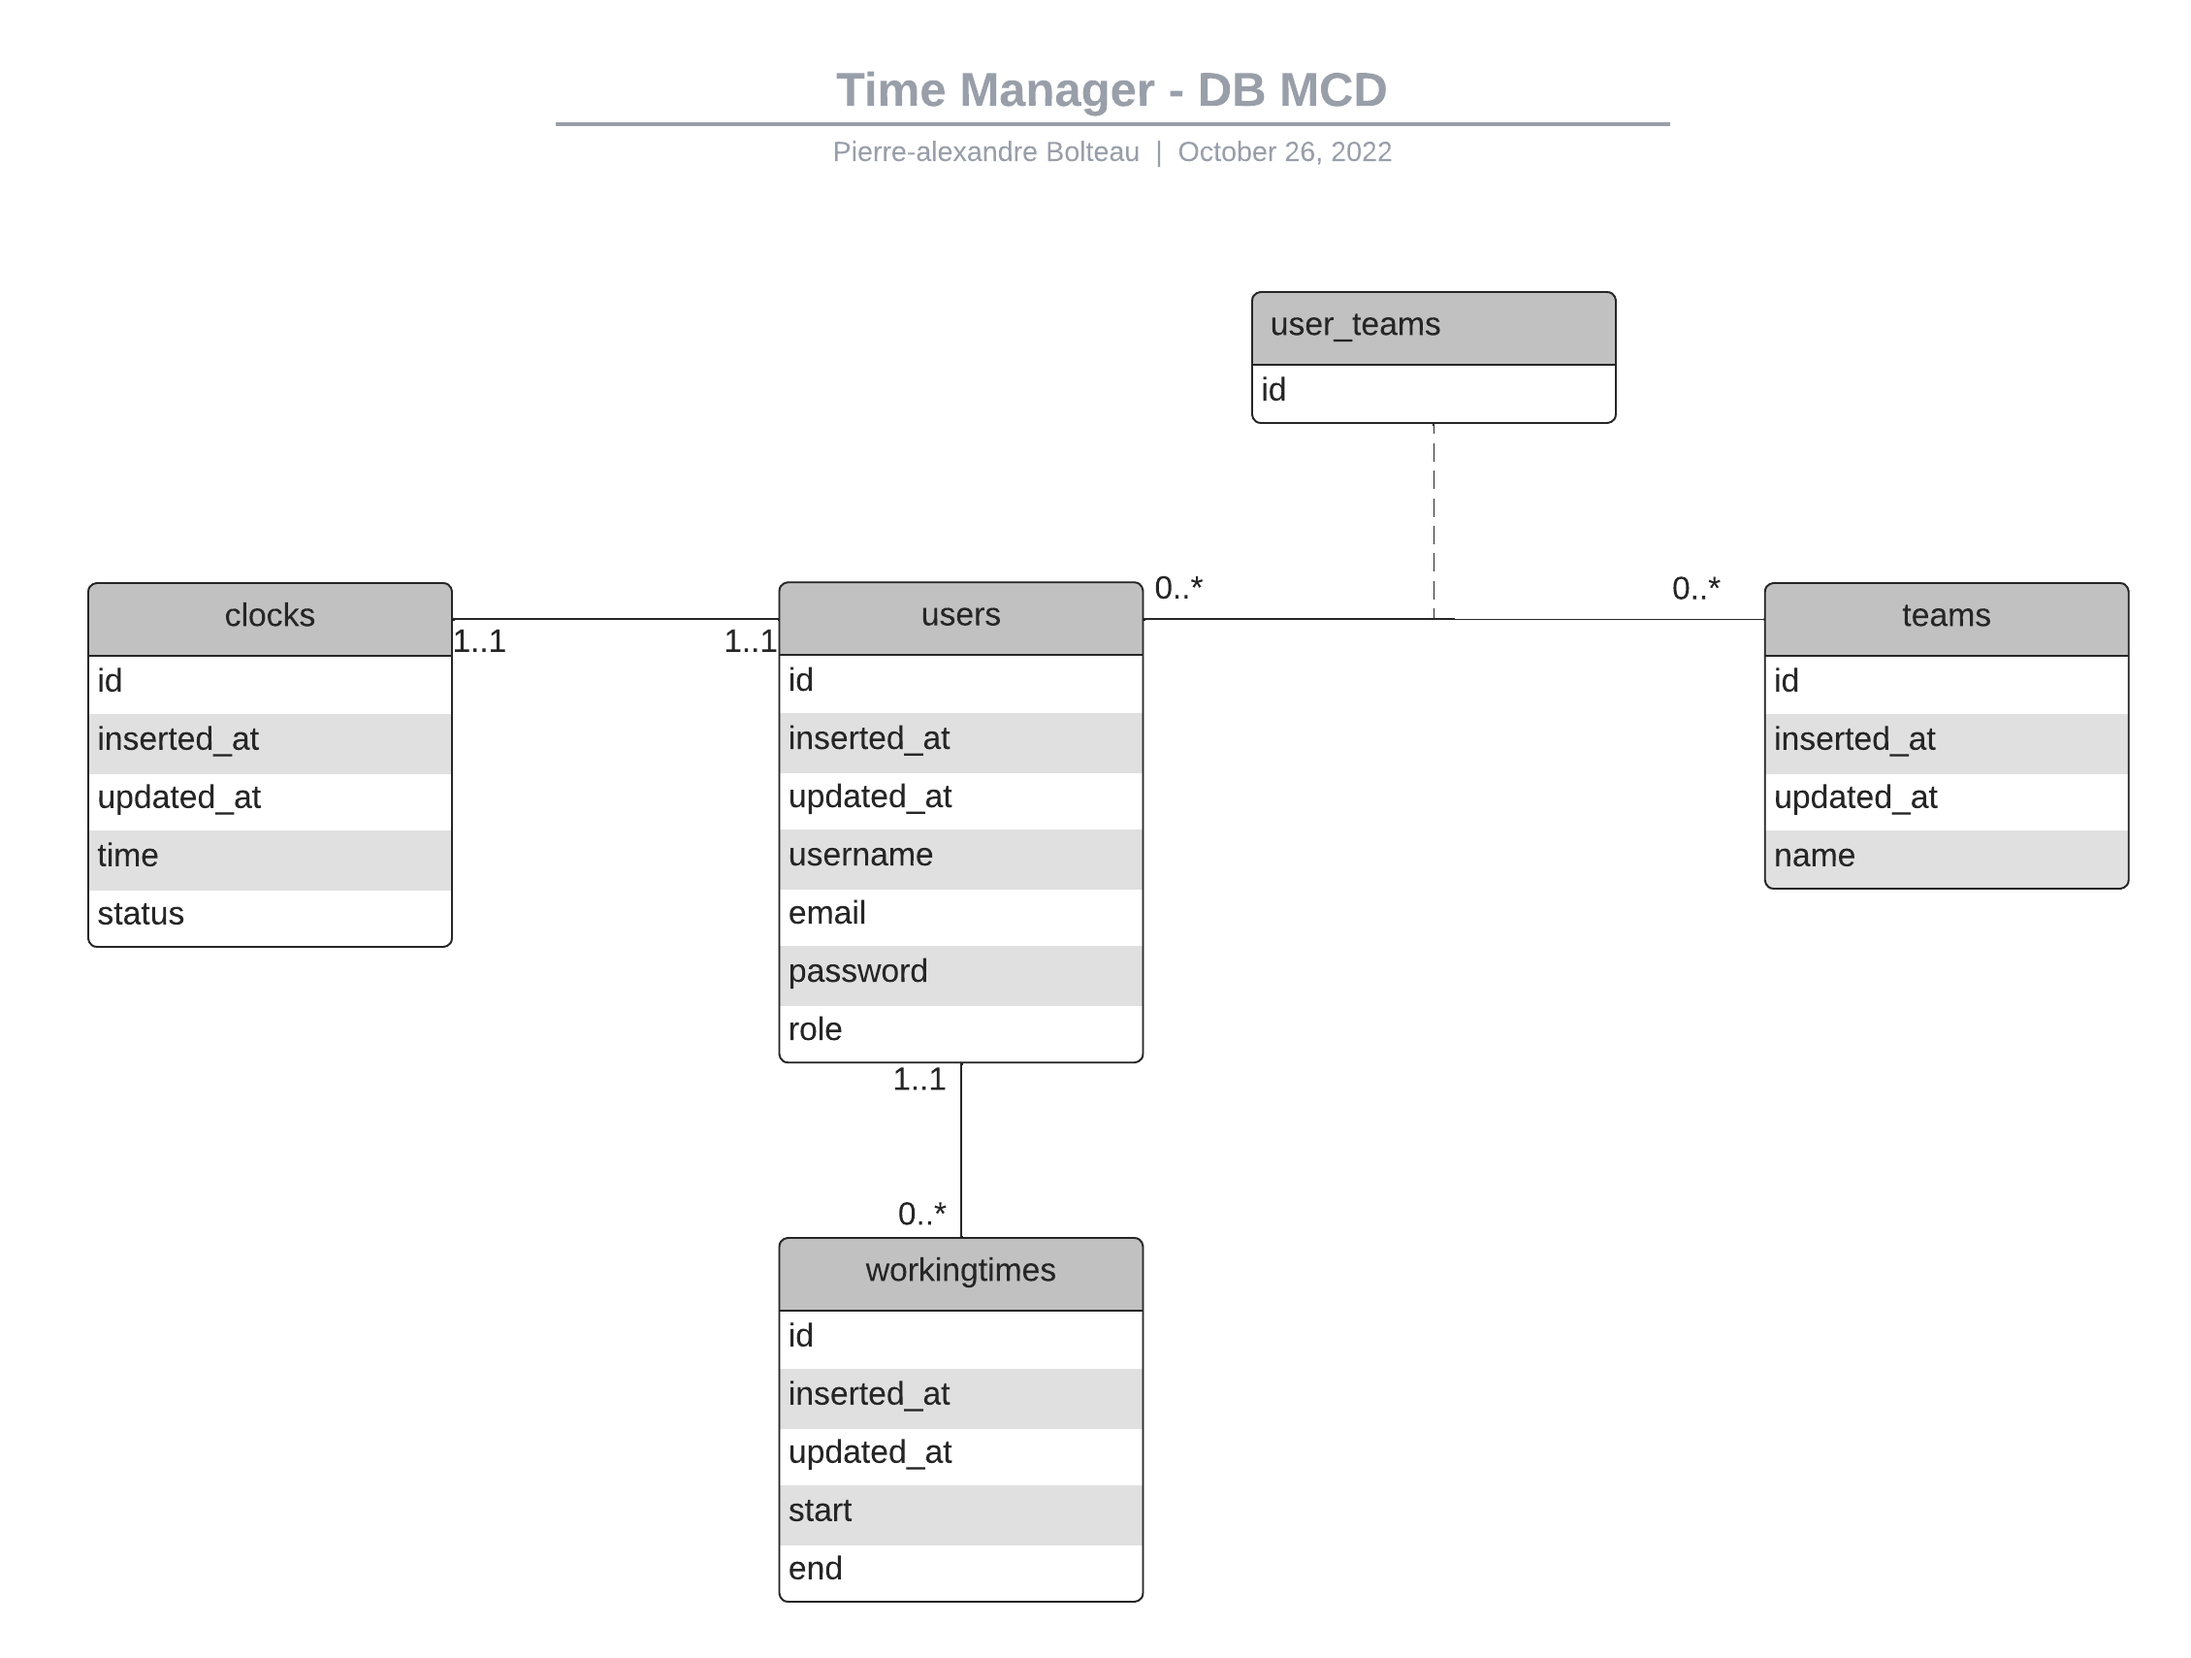
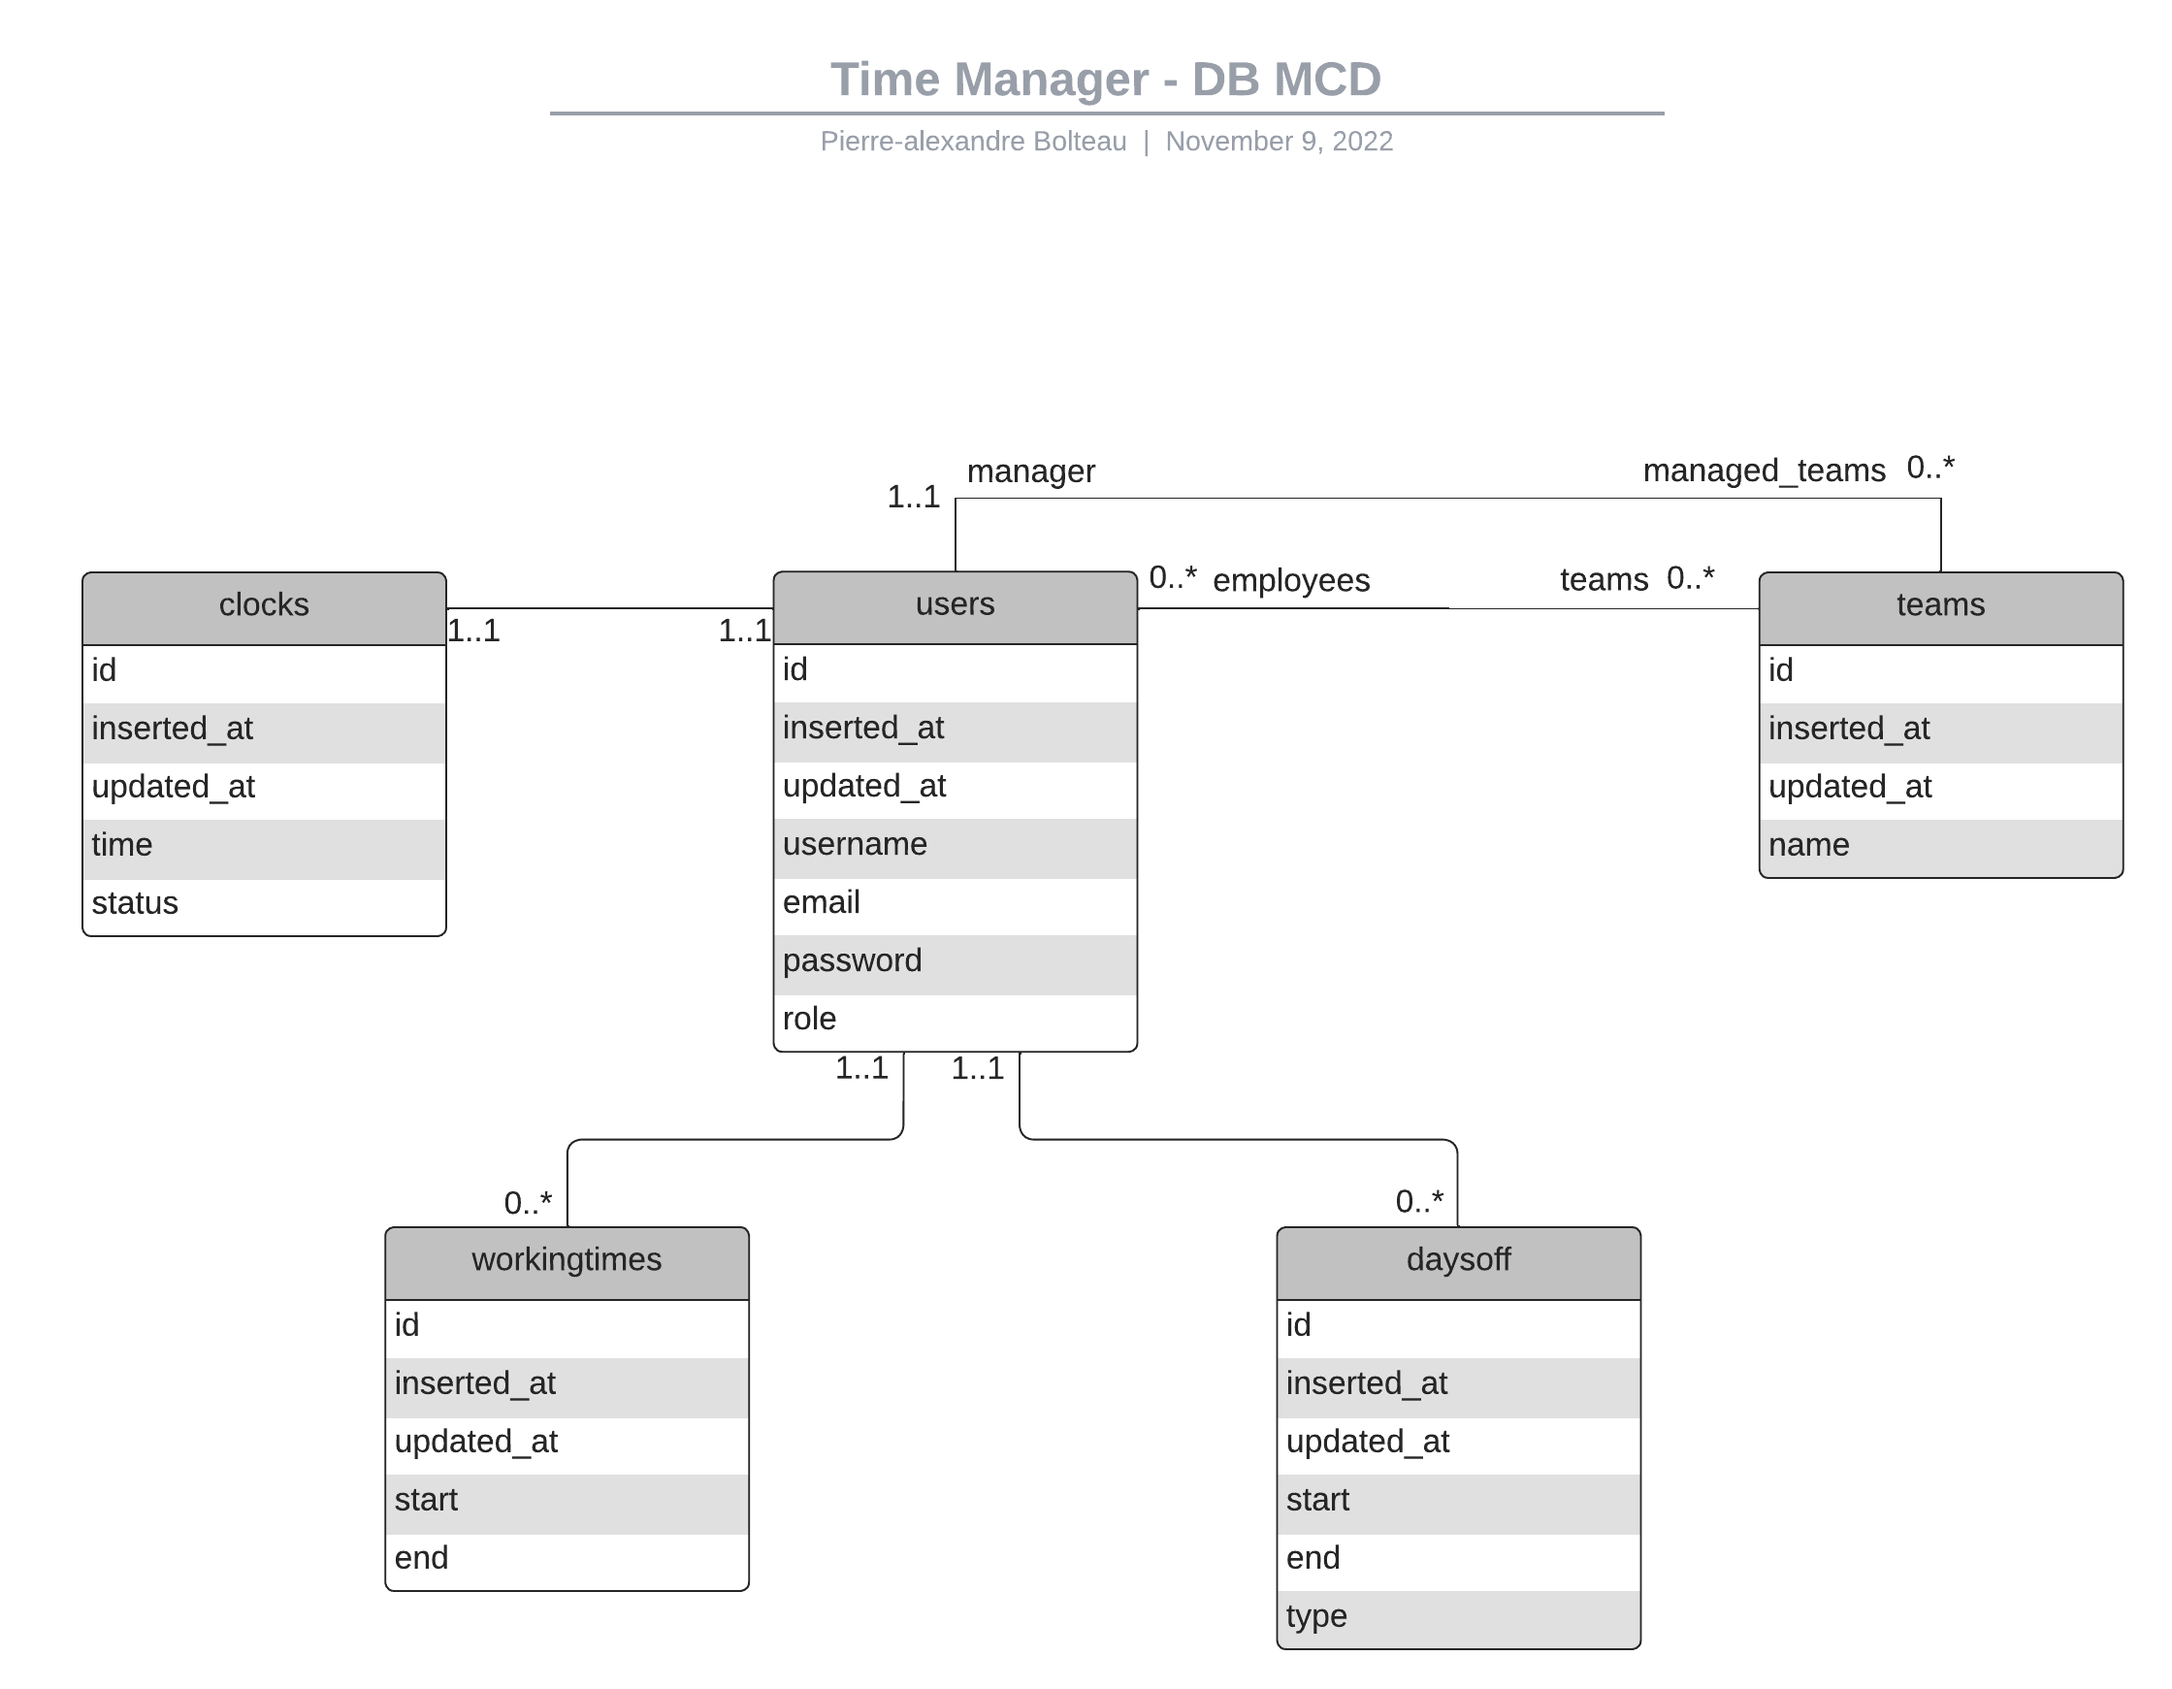
doc

diff --git a/backend/README.md b/backend/README.md
@@ -19,32 +19,62 @@ To start your Dockerized Phoenix server and Deploy:
 
 ## Routes
 
-### **1. Users**
+### **1. Sessions**
 
-| Http Methods | Routes         | Description                                         | Parameters                            | Body example                                                         |
-| ------------ | -------------- | --------------------------------------------------- | ------------------------------------- | -------------------------------------------------------------------- |
-| GET          | /api/users     | Get all users or get one user by username and email | username (optional), email (optional) | -                                                                    |
-| GET          | /api/users/:id | Get user by id                                      | -                                     | -                                                                    |
-| POST         | /api/users     | Create user                                         | -                                     | { "user": { "username": "Thomas", "email": "thomascgz@gmail.com" } } |
-| PUT          | /api/users/:id | Update user by id                                   | -                                     | { "user": { "username": "greg", "email": "test2@test.fr" } }         |
-| DELETE       | /api/users/:id | Delete user by id                                   | -                                     | -                                                                    |
+| Http Methodes | Routes                | Description   | Permissions          | Parameters | Body example                                 |
+|---------------|-----------------------|---------------|----------------------|------------|----------------------------------------------|
+| POST          | /api/sessions/new     | Log in        | -                    | -          | {"email":"test@gmail.com","password":"test"} |
+| POST          | /api/sessions/refresh | Refresh token | must be authenticate | -          | -                                            |
+| POST          | /api/sessions/delete  | Log out       | must be authenticate | -          | -                                            |
 
-### **2. Clocks**
+### **2. Users**
 
-| Http Methods | Routes              | Description                                                                                                | Parameters | Body example |
-| ------------ | ------------------- | ---------------------------------------------------------------------------------------------------------- | ---------- | ------------ |
-| GET          | /api/clocks/:userId | Get the user's clock by its id                                                                             | -          | -            |
-| POST         | /api/clocks/:userId | Post clock or update time and status of the clock. If status is update to false, it creates a working time | -          | -            |
+| Http Methodes | Routes         | Description                                         | Permissions                                                | Parameters                            | Body example                                                                      |
+|---------------|----------------|-----------------------------------------------------|------------------------------------------------------------|---------------------------------------|-----------------------------------------------------------------------------------|
+| GET           | /api/users     | Get all users or get one user by username and email | current user (not for list), manager (not for list), admin | username (optional), email (optional) | -                                                                                 |
+| GET           | /api/users/:id | Get user by id                                      | current user, manager, admin                               | -                                     | -                                                                                 |
+| POST          | /api/users     | Create user                                         | -                                                          | -                                     | { "user": { "username": "Thomas", "email": "test@bar.com" , "password": "test"} } |
+| PUT           | /api/users/:id | Update user by id                                   | current user, manager, admin                               | -                                     | { "user": { "username": "greg", "email": "test2@test.fr" } }                      |
+| DELETE        | /api/users/:id | Delete user by id                                   | current user, manager, admin                               | -                                     | -                                                                                 |
 
-### **3. Workingtimes**
+### **3. Teams**
 
-| Http Methods | Routes                        | Description                                 | Parameters | Body example                                                                        |
-| ------------ | ----------------------------- | ------------------------------------------- | ---------- | ----------------------------------------------------------------------------------- |
-| GET          | /api/workingtimes/:userId     | Get user's workingtimes between 2 datetimes | start, end | -                                                                                   |
-| GET          | /api/workingtimes/:userId/:id | Get workingtime by id and user id           | -          | -                                                                                   |
-| POST         | /api/workingtimes/:userId     | create a workingtime for a user             | -          | { "workingtime": { "start": "2021-10-26T00:00:00", "end": "2021-10-26T23:00:00" } } |
-| PUT          | /api/workingtimes/:id         | update workingtime by id                    | -          | { "workingtime": { "start": "2021-10-26T08:03:07" } }                               |
-| DELETE       | /api/workingtimes/:id         | delete workingtime by id                    | -          | -                                                                                   |
+| Http Methodes | Routes                 | Description         | Permissions                | Parameters | Body example                              |
+|---------------|------------------------|---------------------|----------------------------|------------|-------------------------------------------|
+| GET           | /api/teams             | Get all teams       | must be authenticate       | -          | -                                         |
+| GET           | /api/teams/:id         | Get team by id      | must be authenticate       | -          | -                                         |
+| POST          | /api/teams             | Create user         | manager, admin             | -          | {"team":{"manager_id":"1","name":"test"}} |
+| PUT           | /api/teams/:id         | Update team by id   | manager of the team, admin | -          | {"team":{"name":"update_name"}}           |
+| PUT           | /api/teams/:id/:userId | Add user to team    | manager of the team, admin | -          | -                                         |
+| DELETE        | /api/teams/:id/:userId | Remove user to team | manager of the team, admin | -          | -                                         |
+| DELETE        | /api/teams/:id         | Delete team by id   | manager of the team, admin | -          | -                                         |
+
+### **4. Clocks**
+
+| Http Methodes | Routes              | Description                                                                                                | Permissions                  | Parameters | Body example |
+|---------------|---------------------|------------------------------------------------------------------------------------------------------------|------------------------------|------------|--------------|
+| GET           | /api/clocks/:userId | Get the user's clock by its id                                                                             | current user, manager, admin | -          | -            |
+| POST          | /api/clocks/:userId | Post clock or update time and status of the clock. If status is update to false, it creates a working time | current user, manager, admin | -          | -            |
+
+### **5. Workingtimes**
+
+| Http Methodes | Routes                        | Description                                 | Permissions                  | Parameters | Body example                                                                                    |
+|---------------|-------------------------------|---------------------------------------------|------------------------------|------------|-------------------------------------------------------------------------------------------------|
+| GET           | /api/workingtimes/:userId     | Get user's workingtimes between 2 datetimes | current user, manager, admin | start, end | -                                                                                               |
+| GET           | /api/workingtimes/:userId/:id | Get workingtime by id and user id           | current user, manager, admin | -          | -                                                                                               |
+| POST          | /api/workingtimes/:userId     | create a workingtime for a user             | current user, manager, admin | -          | {   "workingtime": {     "start": "2021-10-26T00:00:00",     "end": "2021-10-26T23:00:00"   } } |
+| PUT           | /api/workingtimes/:id         | update workingtime by id                    | current user, manager, admin | -          | {   "workingtime": {     "start": "2021-10-26T08:03:07"   } }                                   |
+| DELETE        | /api/workingtimes/:id         | delete workingtime by id                    | current user, manager, admin | -          | -                                                                                               |
+
+### **6. Days off**
+
+| Http Methodes | Routes                   | Description                            | Permissions                  | Parameters | Body example                                                                                                         |
+|---------------|--------------------------|----------------------------------------|------------------------------|------------|----------------------------------------------------------------------------------------------------------------------|
+| GET           | /api/daysoff/:userId     | Get user's daysoff between 2 datetimes | current user, manager, admin | start, end | -                                                                                                                    |
+| GET           | /api/daysoff/:userId/:id | Get dayoff by id and user id           | current user, manager, admin | -          | -                                                                                                                    |
+| POST          | /api/daysoff/:userId     | create a dayoff for a user             | current user, manager, admin | -          | {   "dayoff": {     "start": "2021-10-26T00:00:00",     "end": "2021-10-26T23:00:00",     "type": "sick leave"   } } |
+| PUT           | /api/daysoff/:id         | update dayoff by id                    | current user, manager, admin | -          | {   "workingtime": {     "start": "2021-10-26T08:03:07"   } }                                                        |
+| DELETE        | /api/daysoff/:id         | delete dayoff by id                    | current user, manager, admin | -          | -                                                                                                                    |
 
 ## Learn more
 
